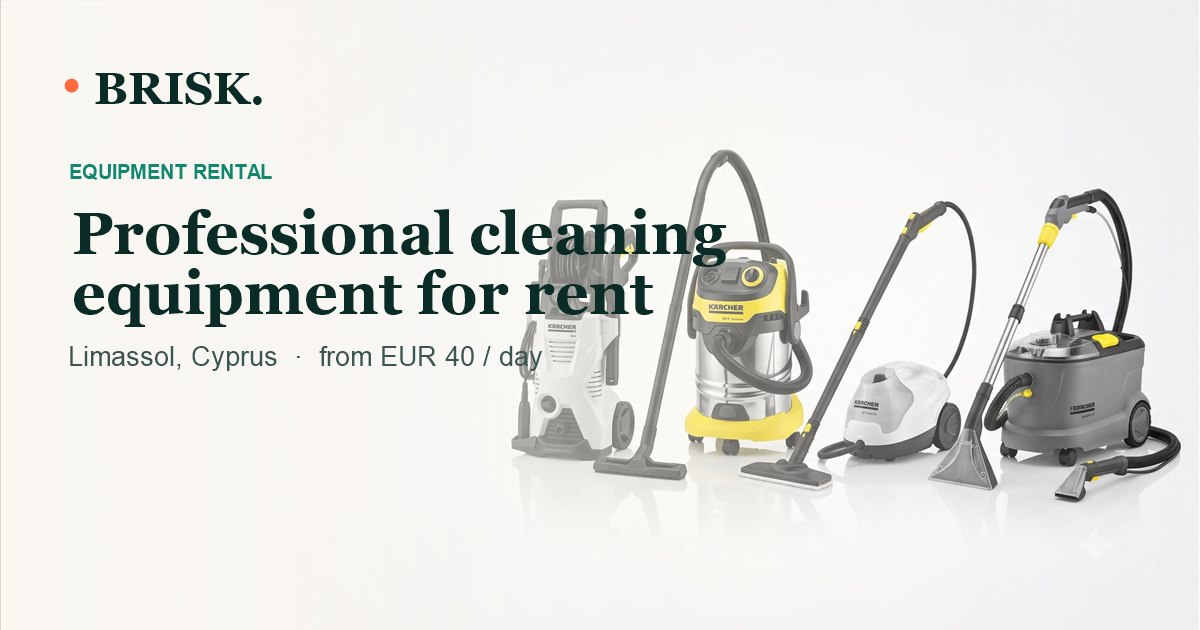
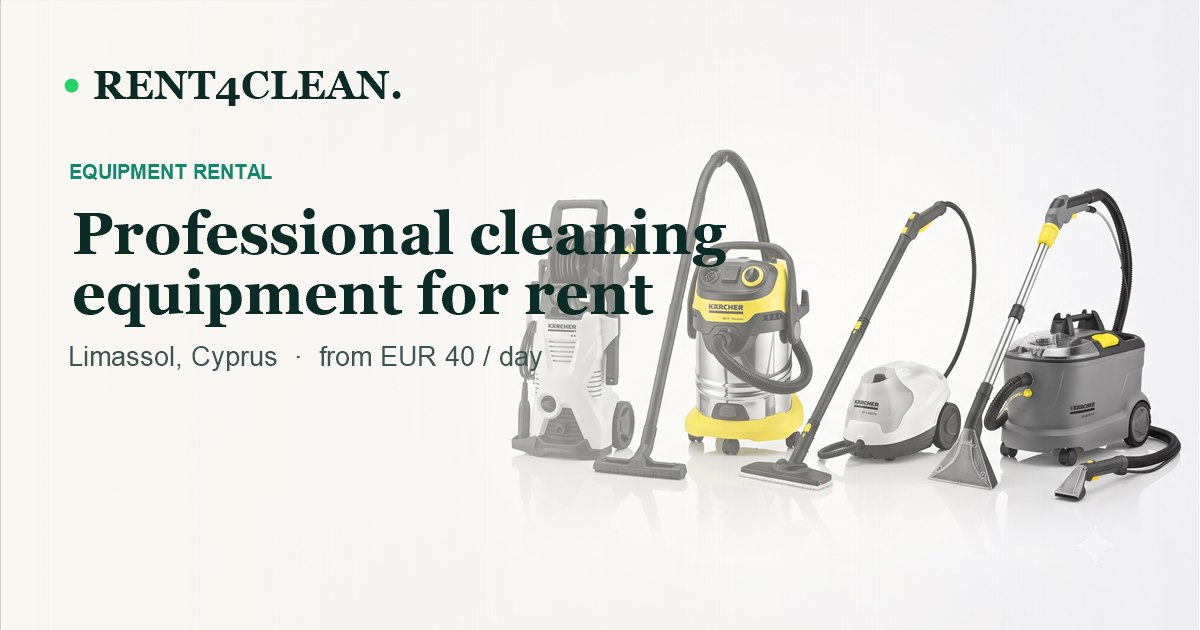
Rebrand Brisk to Rent4Clean
Update logo, page title, meta tags, footer copyright across all languages
and regenerate the OG share image with the new wordmark. Also fix a header
layout bug on narrow phones where the longer brand name pushed the Call Now
button and burger menu into a broken two-row wrap.

Changed region(s): [[0.0308, 0.0905, 0.3392, 0.181], [0.925, 0.7238, 0.9558, 0.754]]

diff --git a/index.html b/index.html
@@ -3,20 +3,20 @@
 <head>
 <meta charset="UTF-8">
 <meta name="viewport" content="width=device-width, initial-scale=1.0">
-<title>Equipment Rental in Limassol, Cyprus — Brisk</title>
+<title>Equipment Rental in Limassol, Cyprus — Rent4Clean</title>
 <meta name="description" content="Rent professional Kärcher cleaning equipment in Limassol, Cyprus — steam cleaners, wet vacuums, construction vacuums and pressure washers from €40.">
 
 <meta property="og:type" content="website">
-<meta property="og:url" content="https://fabulous-meerkat-7edafe.netlify.app/">
-<meta property="og:title" content="Equipment Rental in Limassol, Cyprus — Brisk">
+<meta property="og:url" content="https://rent4clean.cy/">
+<meta property="og:title" content="Equipment Rental in Limassol, Cyprus — Rent4Clean">
 <meta property="og:description" content="Rent professional Kärcher cleaning equipment in Limassol, Cyprus — steam cleaners, wet vacuums, construction vacuums and pressure washers from €40.">
-<meta property="og:image" content="https://fabulous-meerkat-7edafe.netlify.app/assets/img/og-image.jpg">
+<meta property="og:image" content="https://rent4clean.cy/assets/img/og-image.jpg">
 <meta property="og:image:width" content="1200">
 <meta property="og:image:height" content="630">
 <meta name="twitter:card" content="summary_large_image">
-<meta name="twitter:title" content="Equipment Rental in Limassol, Cyprus — Brisk">
+<meta name="twitter:title" content="Equipment Rental in Limassol, Cyprus — Rent4Clean">
 <meta name="twitter:description" content="Rent professional Kärcher cleaning equipment in Limassol, Cyprus — steam cleaners, wet vacuums, construction vacuums and pressure washers from €40.">
-<meta name="twitter:image" content="https://fabulous-meerkat-7edafe.netlify.app/assets/img/og-image.jpg">
+<meta name="twitter:image" content="https://rent4clean.cy/assets/img/og-image.jpg">
 
 <link rel="preconnect" href="https://fonts.googleapis.com">
 <link rel="preconnect" href="https://fonts.gstatic.com" crossorigin>
@@ -28,7 +28,7 @@
 
 <header class="site" id="siteHeader">
   <div class="wrap nav-row">
-    <a href="#top" class="logo"><span class="dot"></span>BRISK<span class="co">.</span></a>
+    <a href="#top" class="logo"><span class="dot"></span>RENT4CLEAN<span class="co">.</span></a>
     <nav class="primary">
       <a href="#why-rent" data-i18n="nav.why">Why rent</a>
       <a href="#pricing" data-i18n="nav.equipment">Equipment</a>
@@ -288,7 +288,7 @@
   <div class="wrap">
     <div class="foot-grid">
       <div class="foot-brand">
-        <a href="#top" class="logo"><span class="dot"></span>BRISK<span class="co">.</span></a>
+        <a href="#top" class="logo"><span class="dot"></span>RENT4CLEAN<span class="co">.</span></a>
         <p data-i18n="footer.tagline">Professional cleaning equipment rental in Limassol, Cyprus. Fixed pricing, delivery available, booked in minutes.</p>
         <div class="soc-row">
           <a href="https://wa.me/35797964748" target="_blank" rel="noopener" aria-label="WhatsApp"><svg width="16" height="16" viewBox="0 0 24 24" fill="currentColor"><path d="M12.04 2C6.58 2 2.13 6.45 2.13 11.91c0 1.85.5 3.62 1.44 5.19L2 22l5.05-1.53a9.9 9.9 0 0 0 4.99 1.35h.01c5.46 0 9.9-4.45 9.9-9.91C21.95 6.45 17.5 2 12.04 2z"/></svg></a>
@@ -315,7 +315,7 @@
       </div>
     </div>
     <div class="bottom-bar">
-      <span data-i18n="footer.copyright">© 2026 Brisk. All rights reserved.</span>
+      <span data-i18n="footer.copyright">© 2026 Rent4Clean. All rights reserved.</span>
     </div>
   </div>
 </footer>

diff --git a/assets/i18n.js b/assets/i18n.js
@@ -1,7 +1,7 @@
 // Translations for EN / RU / EL (Greek). Keys are dot-namespaced to mirror page sections.
 window.BRISK_I18N = {
 en: {
-  "meta.title": "Equipment Rental in Limassol, Cyprus — Brisk",
+  "meta.title": "Equipment Rental in Limassol, Cyprus — Rent4Clean",
   "meta.desc": "Rent professional Kärcher cleaning equipment in Limassol, Cyprus — steam cleaners, wet vacuums, construction vacuums and pressure washers from €40.",
   "nav.why": "Why rent",
   "nav.equipment": "Equipment",
@@ -94,10 +94,10 @@ en: {
   "footer.tagline": "Professional cleaning equipment rental in Limassol, Cyprus. Fixed pricing, delivery available, booked in minutes.",
   "footer.company": "Company",
   "footer.contact": "Contact",
-  "footer.copyright": "© 2026 Brisk. All rights reserved."
+  "footer.copyright": "© 2026 Rent4Clean. All rights reserved."
 },
 ru: {
-  "meta.title": "Аренда клинингового оборудования в Лимассоле, Кипр — Brisk",
+  "meta.title": "Аренда клинингового оборудования в Лимассоле, Кипр — Rent4Clean",
   "meta.desc": "Аренда профессионального оборудования Kärcher в Лимассоле, Кипр — пароочистители, моющие пылесосы, строительные пылесосы и аппараты высокого давления от €40.",
   "nav.why": "Зачем арендовать",
   "nav.equipment": "Оборудование",
@@ -190,10 +190,10 @@ ru: {
   "footer.tagline": "Аренда профессионального клинингового оборудования в Лимассоле, Кипр. Фиксированные цены, доставка, бронирование за минуты.",
   "footer.company": "Компания",
   "footer.contact": "Контакты",
-  "footer.copyright": "© 2026 Brisk. Все права защищены."
+  "footer.copyright": "© 2026 Rent4Clean. Все права защищены."
 },
 el: {
-  "meta.title": "Ενοικίαση Εξοπλισμού Καθαρισμού στη Λεμεσό, Κύπρος — Brisk",
+  "meta.title": "Ενοικίαση Εξοπλισμού Καθαρισμού στη Λεμεσό, Κύπρος — Rent4Clean",
   "meta.desc": "Νοικιάστε επαγγελματικό εξοπλισμό καθαρισμού Kärcher στη Λεμεσό, Κύπρος — ατμοκαθαριστές, ηλεκτρικές σκούπες υγρής χρήσης, σκούπες εργοταξίου και πλυστικά υψηλής πίεσης από €40.",
   "nav.why": "Γιατί ενοικίαση",
   "nav.equipment": "Εξοπλισμός",
@@ -286,6 +286,6 @@ el: {
   "footer.tagline": "Ενοικίαση επαγγελματικού εξοπλισμού καθαρισμού στη Λεμεσό, Κύπρος. Σταθερές τιμές, δυνατότητα παράδοσης, κράτηση σε λίγα λεπτά.",
   "footer.company": "Εταιρεία",
   "footer.contact": "Επικοινωνία",
-  "footer.copyright": "© 2026 Brisk. Με επιφύλαξη παντός δικαιώματος."
+  "footer.copyright": "© 2026 Rent4Clean. Με επιφύλαξη παντός δικαιώματος."
 }
 };

diff --git a/assets/style.css b/assets/style.css
@@ -63,7 +63,7 @@ header.site{
 }
 header.site.scrolled{border-color:var(--line);box-shadow:0 4px 24px rgba(11,43,39,0.06);}
 .nav-row{display:flex;align-items:center;justify-content:space-between;height:82px;gap:20px;}
-.logo{display:flex;align-items:center;gap:10px;font-family:var(--display);font-weight:700;font-size:22px;letter-spacing:-0.01em;color:var(--ink);flex-shrink:0;}
+.logo{display:flex;align-items:center;gap:7px;font-family:var(--display);font-weight:700;font-size:clamp(13px,4.6vw,22px);letter-spacing:-0.01em;color:var(--ink);flex-shrink:0;white-space:nowrap;}
 .logo .dot{width:11px;height:11px;border-radius:50%;background:var(--accent);}
 .logo span.co{color:var(--primary);}
 nav.primary{display:flex;align-items:center;gap:clamp(14px,2vw,30px);}
@@ -478,4 +478,10 @@ footer .flinks a:hover{color:var(--primary-light);}
   .phone-link{display:none;}
   .head-actions .icon-btn{display:none;}
   .head-actions{gap:10px;}
+}
+@media(max-width:400px){
+  .nav-row{gap:8px;}
+  .head-actions{gap:6px;}
+  .head-actions .btn-accent{padding:9px 13px;font-size:12.5px;}
+  .burger{width:38px;height:38px;}
 }

diff --git a/assets/main.js b/assets/main.js
@@ -109,7 +109,7 @@ document.addEventListener('DOMContentLoaded', () => {
       const phone = document.getElementById('qPhone').value.trim();
       const serviceEl = document.getElementById('qService');
       const service = serviceEl ? serviceEl.value : (quoteForm.dataset.service || 'a cleaning service');
-      const msg = encodeURIComponent(`Hi Brisk Cleaning! My name is ${name} (${phone}). I'd like a quote for: ${service}.`);
+      const msg = encodeURIComponent(`Hi Rent4Clean! My name is ${name} (${phone}). I'd like a quote for: ${service}.`);
       window.open(`https://wa.me/${BRISK_WHATSAPP}?text=${msg}`, '_blank');
     });
   }
